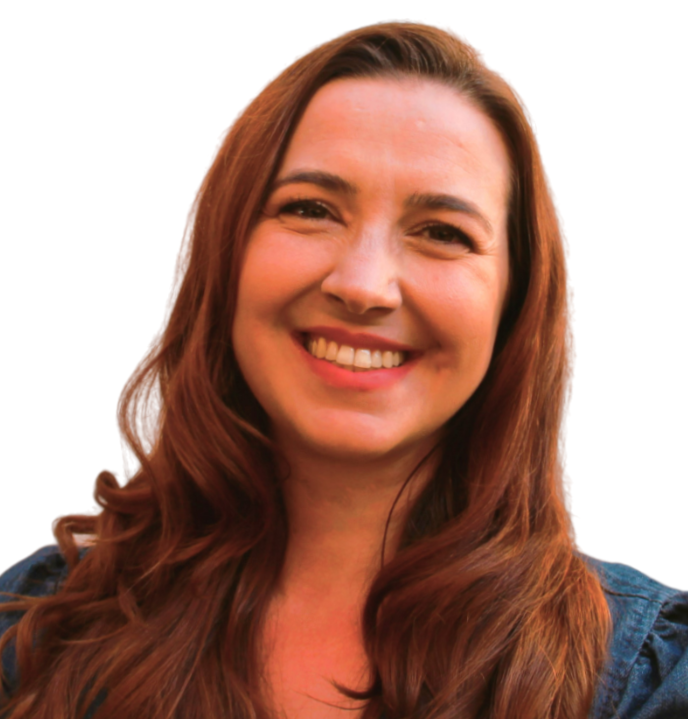
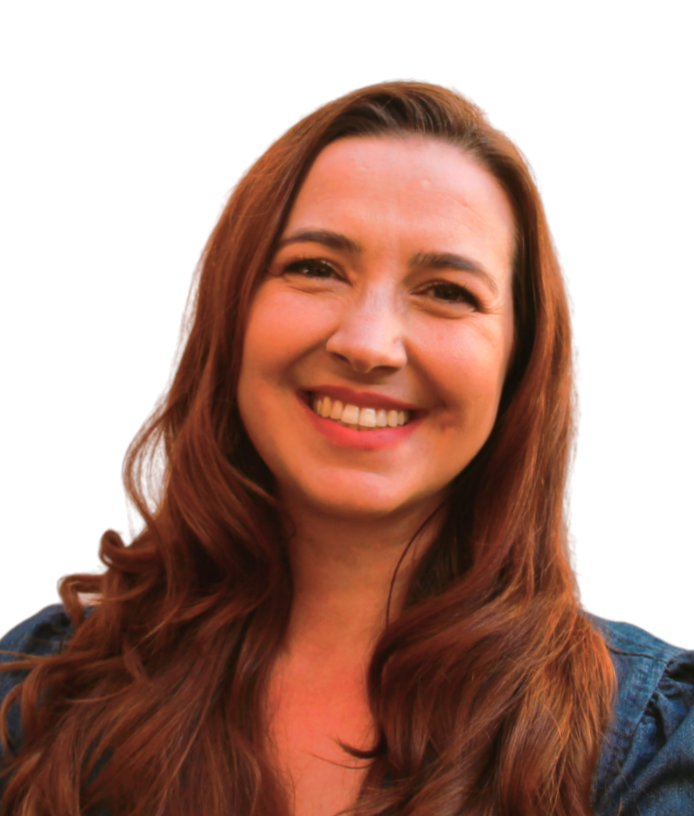
updating assets

diff --git a/src/components/SquadSection/infos.ts b/src/components/SquadSection/infos.ts
@@ -15,7 +15,7 @@ const data = [
     nomeMembro: "Cassiane Ginez",
     funcao: "UX/UI Designer",
     linkLinkedin: "https://www.linkedin.com/in/cassianeginez/",
-    foto: "devs/cassiane-ux.png",
+    foto: "devs/cassi-ux.png",
     sobreMembro: "UX/UI designer do time. Meu papel no projeto se dá principalmente em atuar na criação de um produto digital que proporciona uma experiência intuitiva e agradável para os usuários, gerando satisfação no uso e alcançando metas de negócios. As atividades envolvem entender as necessidades e comportamentos dos usuários e traduzir essa compreensão em interações intuitivas e eficientes dentro da interface digital.",
     primario: false
   },
@@ -24,7 +24,7 @@ const data = [
     nomeMembro: "Cleberson Emidio",
     funcao: "Scrum Master",
     linkLinkedin: "https://www.linkedin.com/in/cleberson-emidio/",
-    foto: "devs/emidio-smt.png",
+    foto: "devs/emidio-sm.png",
     sobreMembro: "Estou aqui para orientar e capacitar nossa squad a alcançar todo o seu potencial. Quero garantir que todos tenham voz e que possamos enfrentar desafios juntos, sempre em busca das melhores práticas e soluções criativas.Meu objetivo é criar um ambiente onde a inovação floresça e onde todos se sintam capacitados a contribuir com suas habilidades únicas.",
     primario: true
   },
@@ -33,7 +33,7 @@ const data = [
     nomeMembro: "Daniela Alves",
     funcao: "Desenvolvedora Front End",
     linkLinkedin: "https://www.linkedin.com/in/daniela-dos-santos-alves/",
-    foto: "devs/daniela-alves.jpg",
+    foto: "devs/dani-dev.png",
     sobreMembro: "Sou graduanda em Engenharia de Software e possuo conhecimento nas linguagens de programação C, Java, JavaScript, SQL e Python. E nas linguagens de marcação e estilização, como HTML e CSS.",
     primario: false
   },
